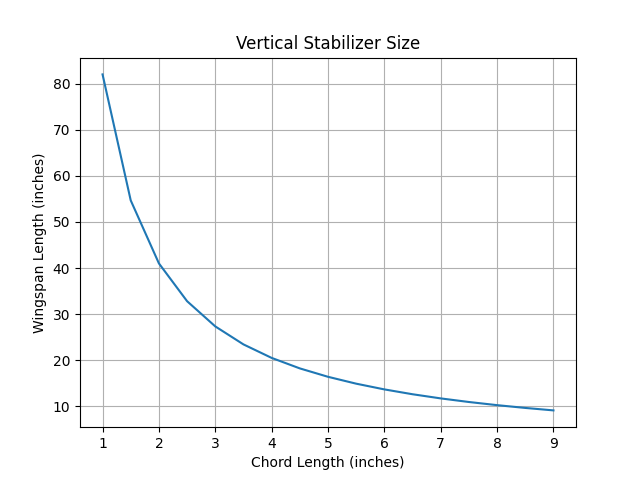
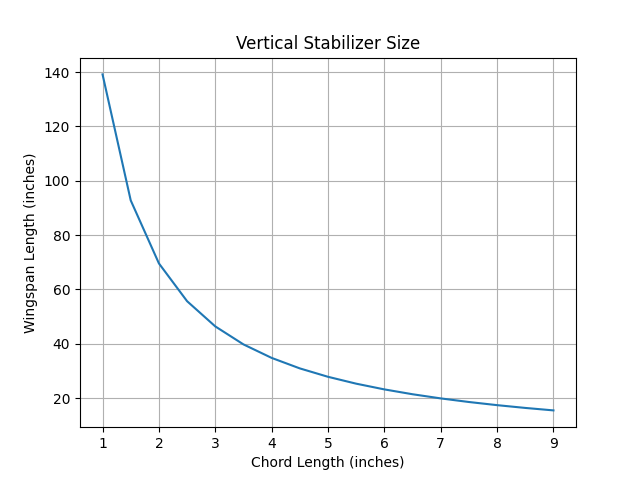
fixing tail sizing (s_ref was wrong)

diff --git a/vertical_stabilizer.py b/vertical_stabilizer.py
@@ -10,25 +10,24 @@ ureg = pint.UnitRegistry()
 
 
 # Our Calculated/Given variables
-S_ref_meter=0.44608787 * ureg.meter**2
-S_ref_inch=S_ref_meter.to(ureg.inch**2)
-
 chord_inch=9.88 * ureg.inch
 chord_meter=chord_inch.to(ureg.meter)
 
-wingspan_inch=65.25 * ureg.inch 
+wingspan_inch=65 * ureg.inch 
 wingspan_meter=wingspan_inch.to(ureg.meter)
 
-
+S_ref_inch=wingspan_inch * chord_inch
+S_ref_meter=S_ref_inch.to(ureg.meter**2)
+print('S_ref is ', S_ref_inch)
 
 # Vertical Tail Sizing Calculations
 # C_VT = S_VT * L_VT / ( wingspan * S_ref)
 
 # C_VT value shoudl be between 0.02-0.05
-C_VT=0.02  # unitless
+C_VT=0.03  # unitless
 
 # Educated guess on what L_VT would be
-L_VT=11 * ureg.inch
+L_VT=9 * ureg.inch
 
 S_VT=C_VT*wingspan_inch*S_ref_inch/L_VT
 print('Surface area of the Vertical Tail is =', S_VT)
